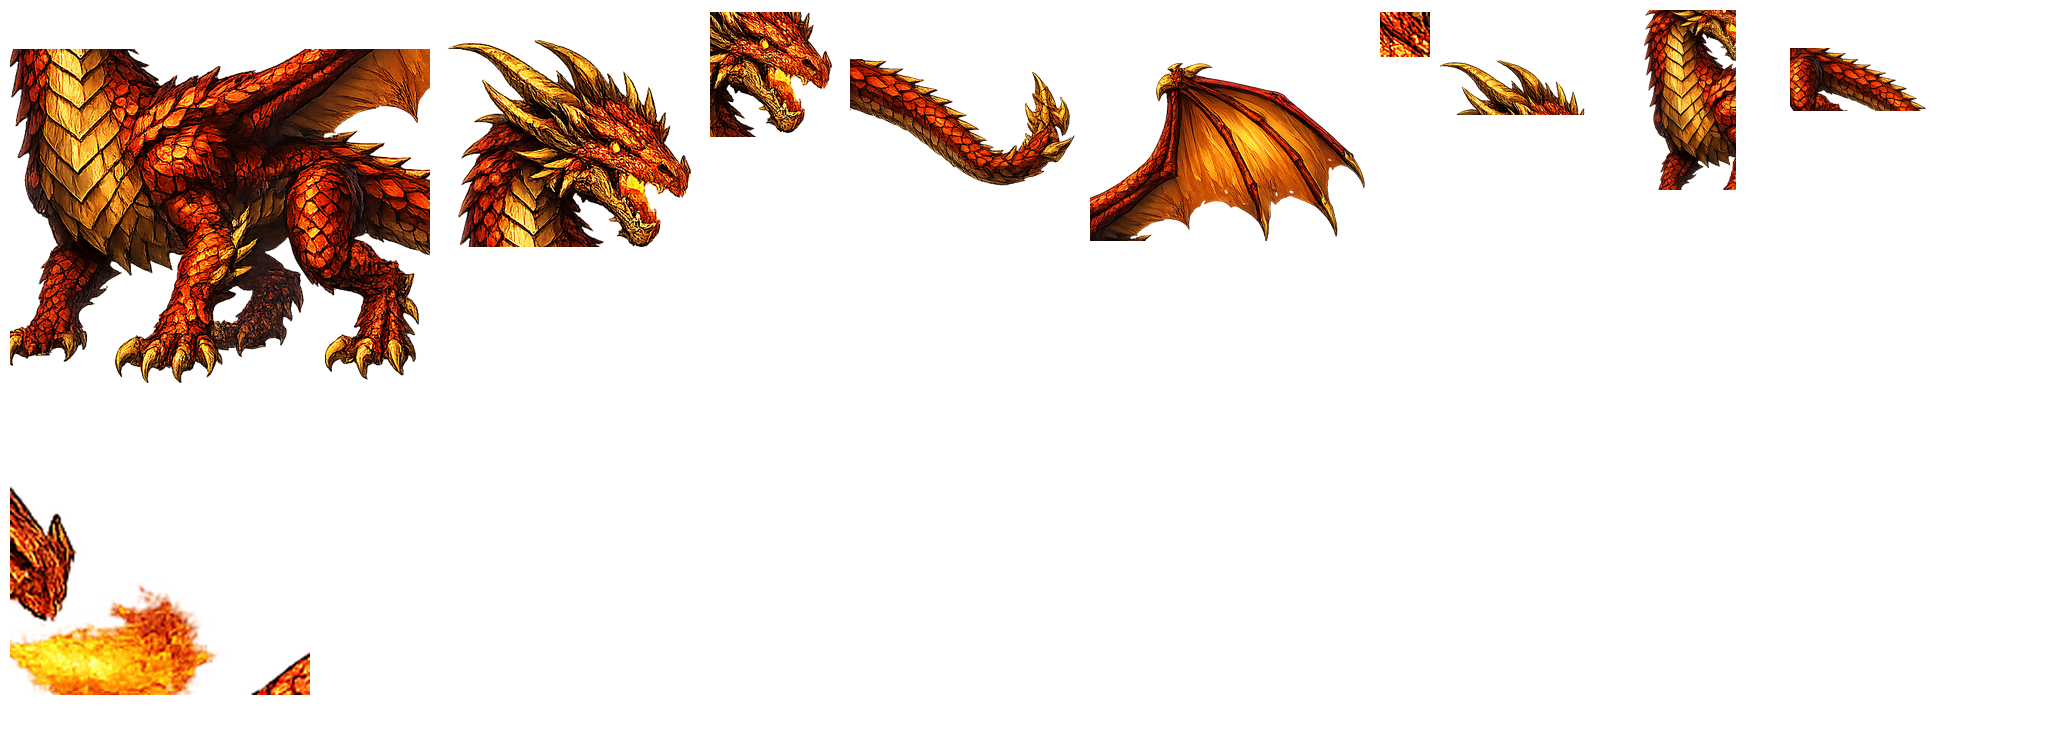
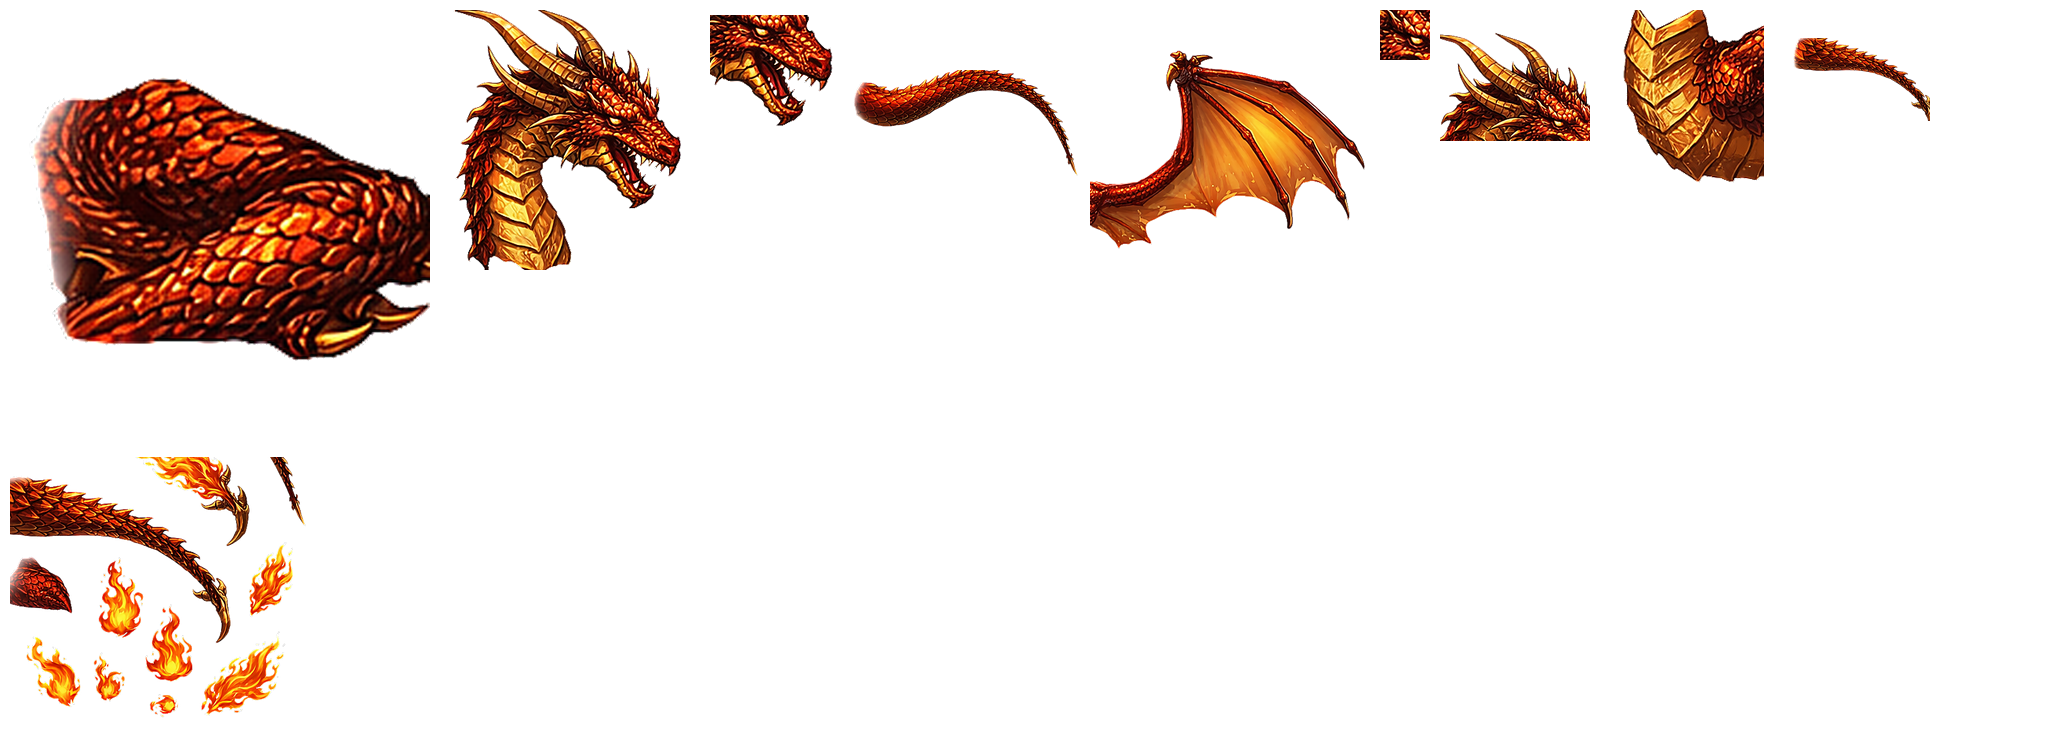
Auto-slice dragon sheet into part PNGs for atlas generation

Changed region(s): [[0.0, 0.0, 0.6875, 0.5213], [0.6562, 0.0, 0.9688, 0.2453], [0.0, 0.6133, 0.1562, 0.9507]]

diff --git a/scripts/generate_painted_atlases.py b/scripts/generate_painted_atlases.py
@@ -243,8 +243,19 @@ def extract_largest_alpha_component(image: Image.Image, alpha_threshold: int = 2
     return out
 
 
+def has_significant_transparency(image: Image.Image, threshold_ratio: float = 0.08) -> bool:
+    rgba_img = image.convert("RGBA")
+    alpha = rgba_img.split()[3]
+    total = alpha.width * alpha.height
+    if total <= 0:
+        return False
+    transparent = sum(1 for value in alpha.getdata() if value < 6)
+    return (transparent / total) >= threshold_ratio
+
+
 def prepare_reference_part(image: Image.Image, target_size: tuple[int, int], largest_component: bool = False) -> Image.Image:
-    cutout = chroma_key_light_background(image.convert("RGBA"))
+    rgba_img = image.convert("RGBA")
+    cutout = rgba_img if has_significant_transparency(rgba_img) else chroma_key_light_background(rgba_img)
     if largest_component:
         cutout = extract_largest_alpha_component(cutout, alpha_threshold=22)
     cutout = trim_to_alpha_bounds(cutout, padding=10)
@@ -282,6 +293,77 @@ def load_reference_part_file(
     if not path:
         return None
     return prepare_reference_part(Image.open(path).convert("RGBA"), target_size, largest_component=largest_component)
+
+
+def find_existing_part_file(part_dir: Path, aliases: tuple[str, ...]) -> Path | None:
+    candidates: list[Path] = []
+    for alias in aliases:
+        candidates.extend(
+            (
+                part_dir / f"{alias}.png",
+                part_dir / f"{alias}.webp",
+                part_dir / f"{alias}.jpg",
+                part_dir / f"{alias}.jpeg",
+            )
+        )
+    return first_existing(candidates)
+
+
+def autoslice_dragon_sheet_parts() -> list[str]:
+    """Auto-generate per-part dragon cutouts from a separated sheet image.
+
+    This is a convenience path when users provide `dragon.png`/`dragonhero.png`
+    but haven't created `public/assets/source/dragon-parts/*.png` yet.
+    """
+    DRAGON_PARTS_DIR.mkdir(parents=True, exist_ok=True)
+
+    sheet_data = load_reference_image(
+        [
+            "dragon.png",
+            "dragon.webp",
+            "dragon.jpg",
+            "dragonhero.png",
+            "dragonhero.webp",
+            "dragonhero.jpg",
+            "dragon-reference.png",
+            "dragon-reference.webp",
+            "dragon-reference.jpg",
+            "dragon-sheet.png",
+            "dragon-sheet.webp",
+            "dragon-sheet.jpg",
+        ]
+    )
+    if not sheet_data:
+        return []
+
+    source, source_name = sheet_data
+    crop_boxes = DRAGON_HERO_CROP_BOXES if "dragonhero" in source_name else DRAGON_REFERENCE_CROP_BOXES
+
+    generated: list[str] = []
+    for key in DRAGON_PART_ALIASES:
+        aliases = DRAGON_PART_ALIASES.get(key, (key,))
+        if find_existing_part_file(DRAGON_PARTS_DIR, aliases):
+            continue
+
+        box = crop_boxes.get(key)
+        if not box:
+            continue
+
+        part = source.crop(box).convert("RGBA")
+        part = part if has_significant_transparency(part) else chroma_key_light_background(part, min_luma=208, max_channel_diff=28)
+        if key != "dragon-glow":
+            part = extract_largest_alpha_component(part, alpha_threshold=20)
+        part = trim_to_alpha_bounds(part, padding=8)
+        part = clip_alpha_floor(part, 8 if key != "dragon-glow" else 0)
+
+        if not part.getbbox():
+            continue
+
+        out_path = DRAGON_PARTS_DIR / f"{key}.png"
+        part.save(out_path, optimize=True)
+        generated.append(key)
+
+    return generated
 
 
 def add_masked_grain(
@@ -938,6 +1020,9 @@ def generate_treasure_atlas() -> None:
 def generate_dragon_atlas() -> None:
     frame_data = load_frames(ATLAS_DIR / "dragon-atlas.json")
     canvas = Image.new("RGBA", (2048, 750), (0, 0, 0, 0))
+    generated_parts = autoslice_dragon_sheet_parts()
+    if generated_parts:
+        print(f"Auto-sliced dragon parts from sheet: {', '.join(generated_parts)}")
     dragon_reference_data = load_reference_image(
         [
             "dragonhero.png",
